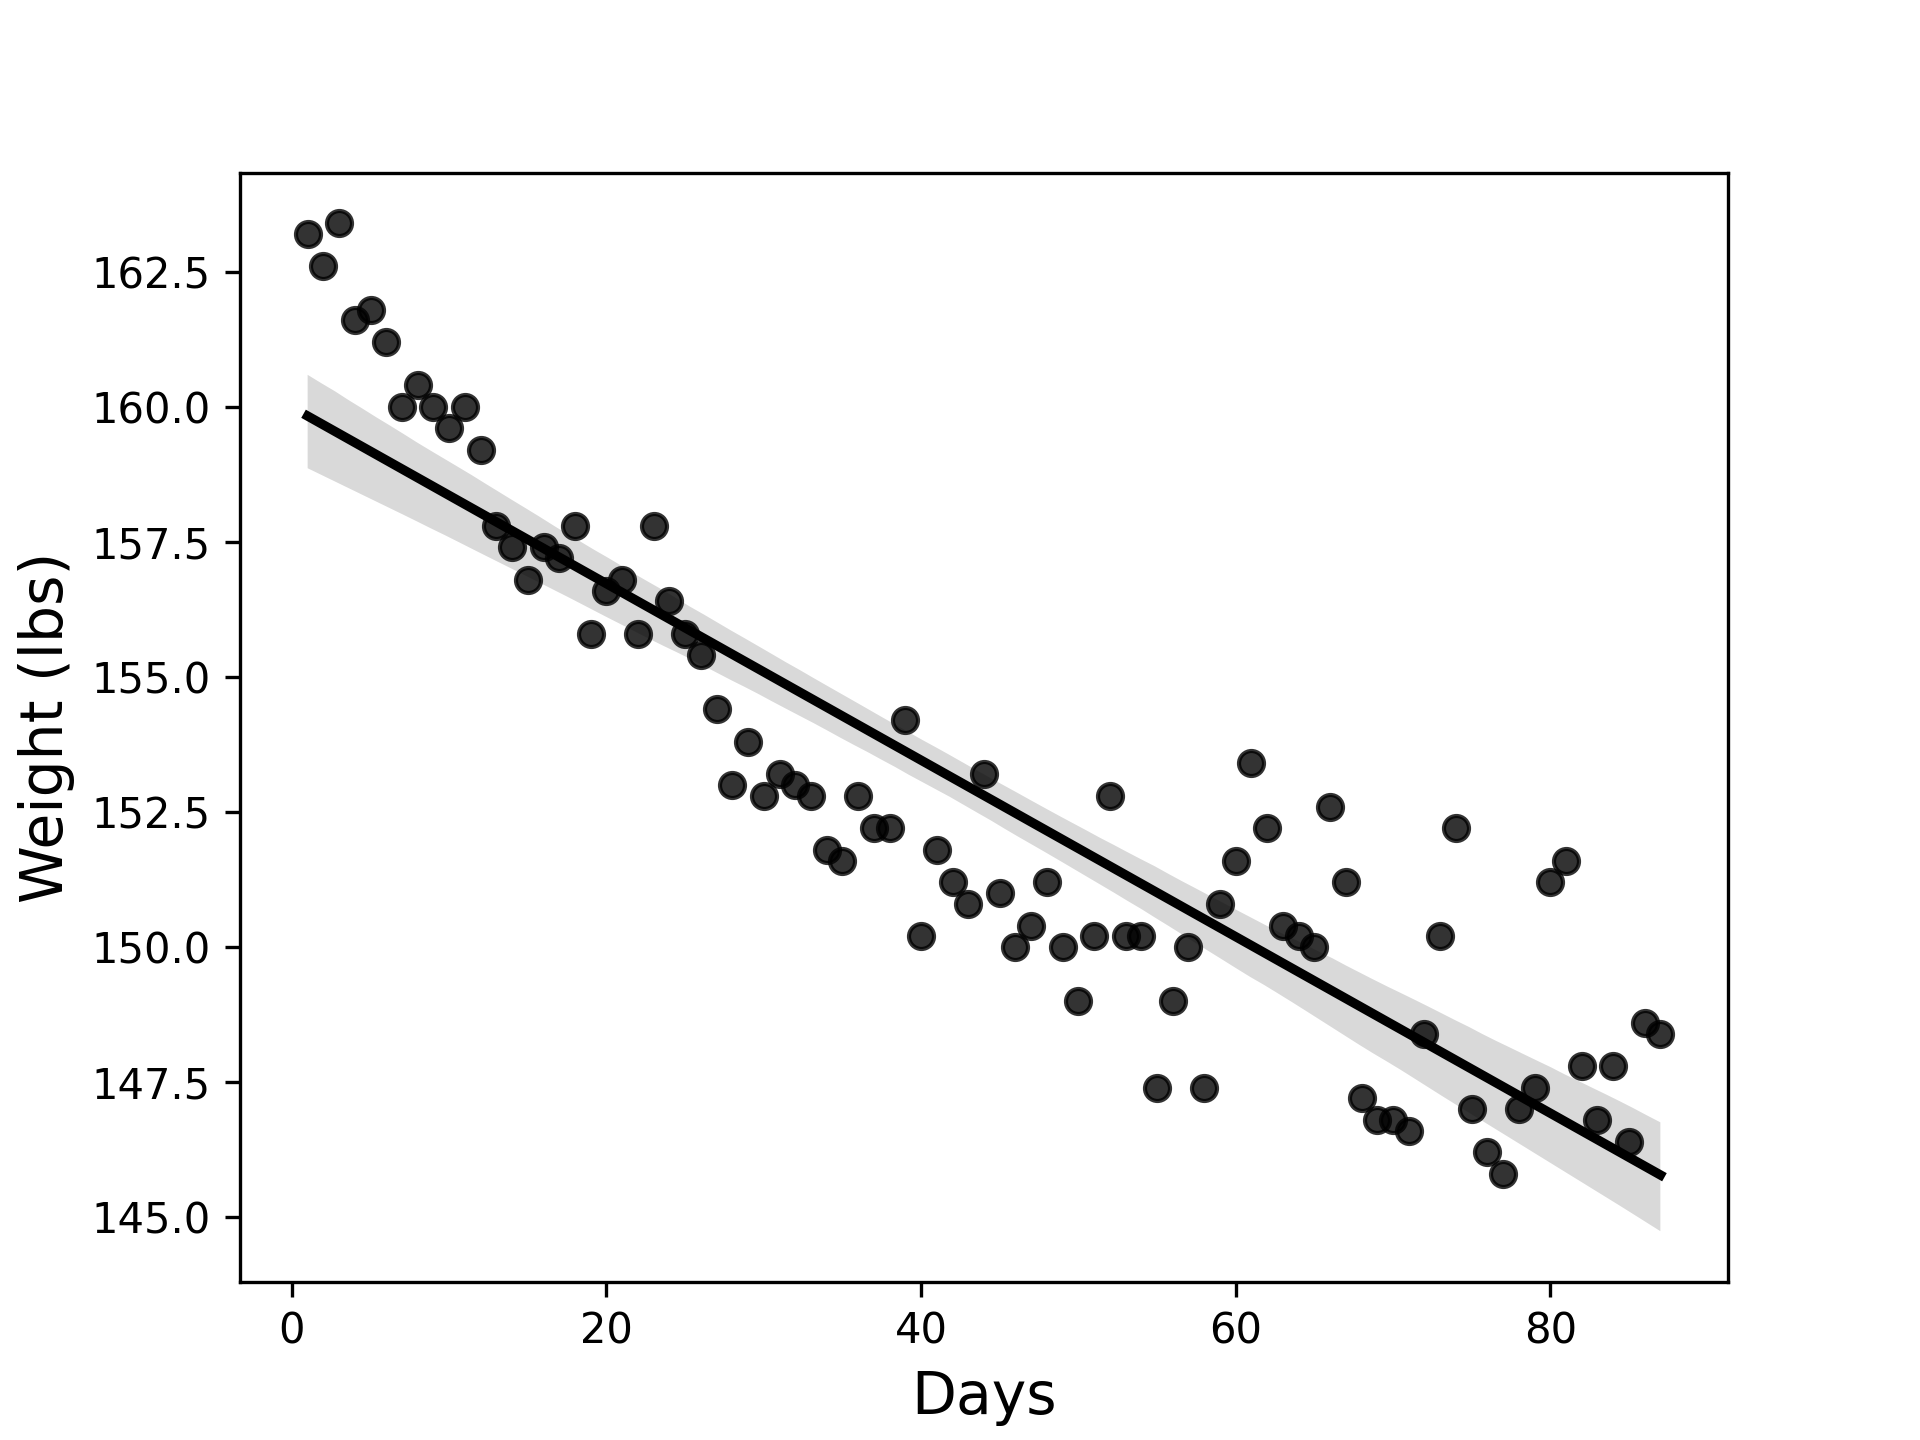
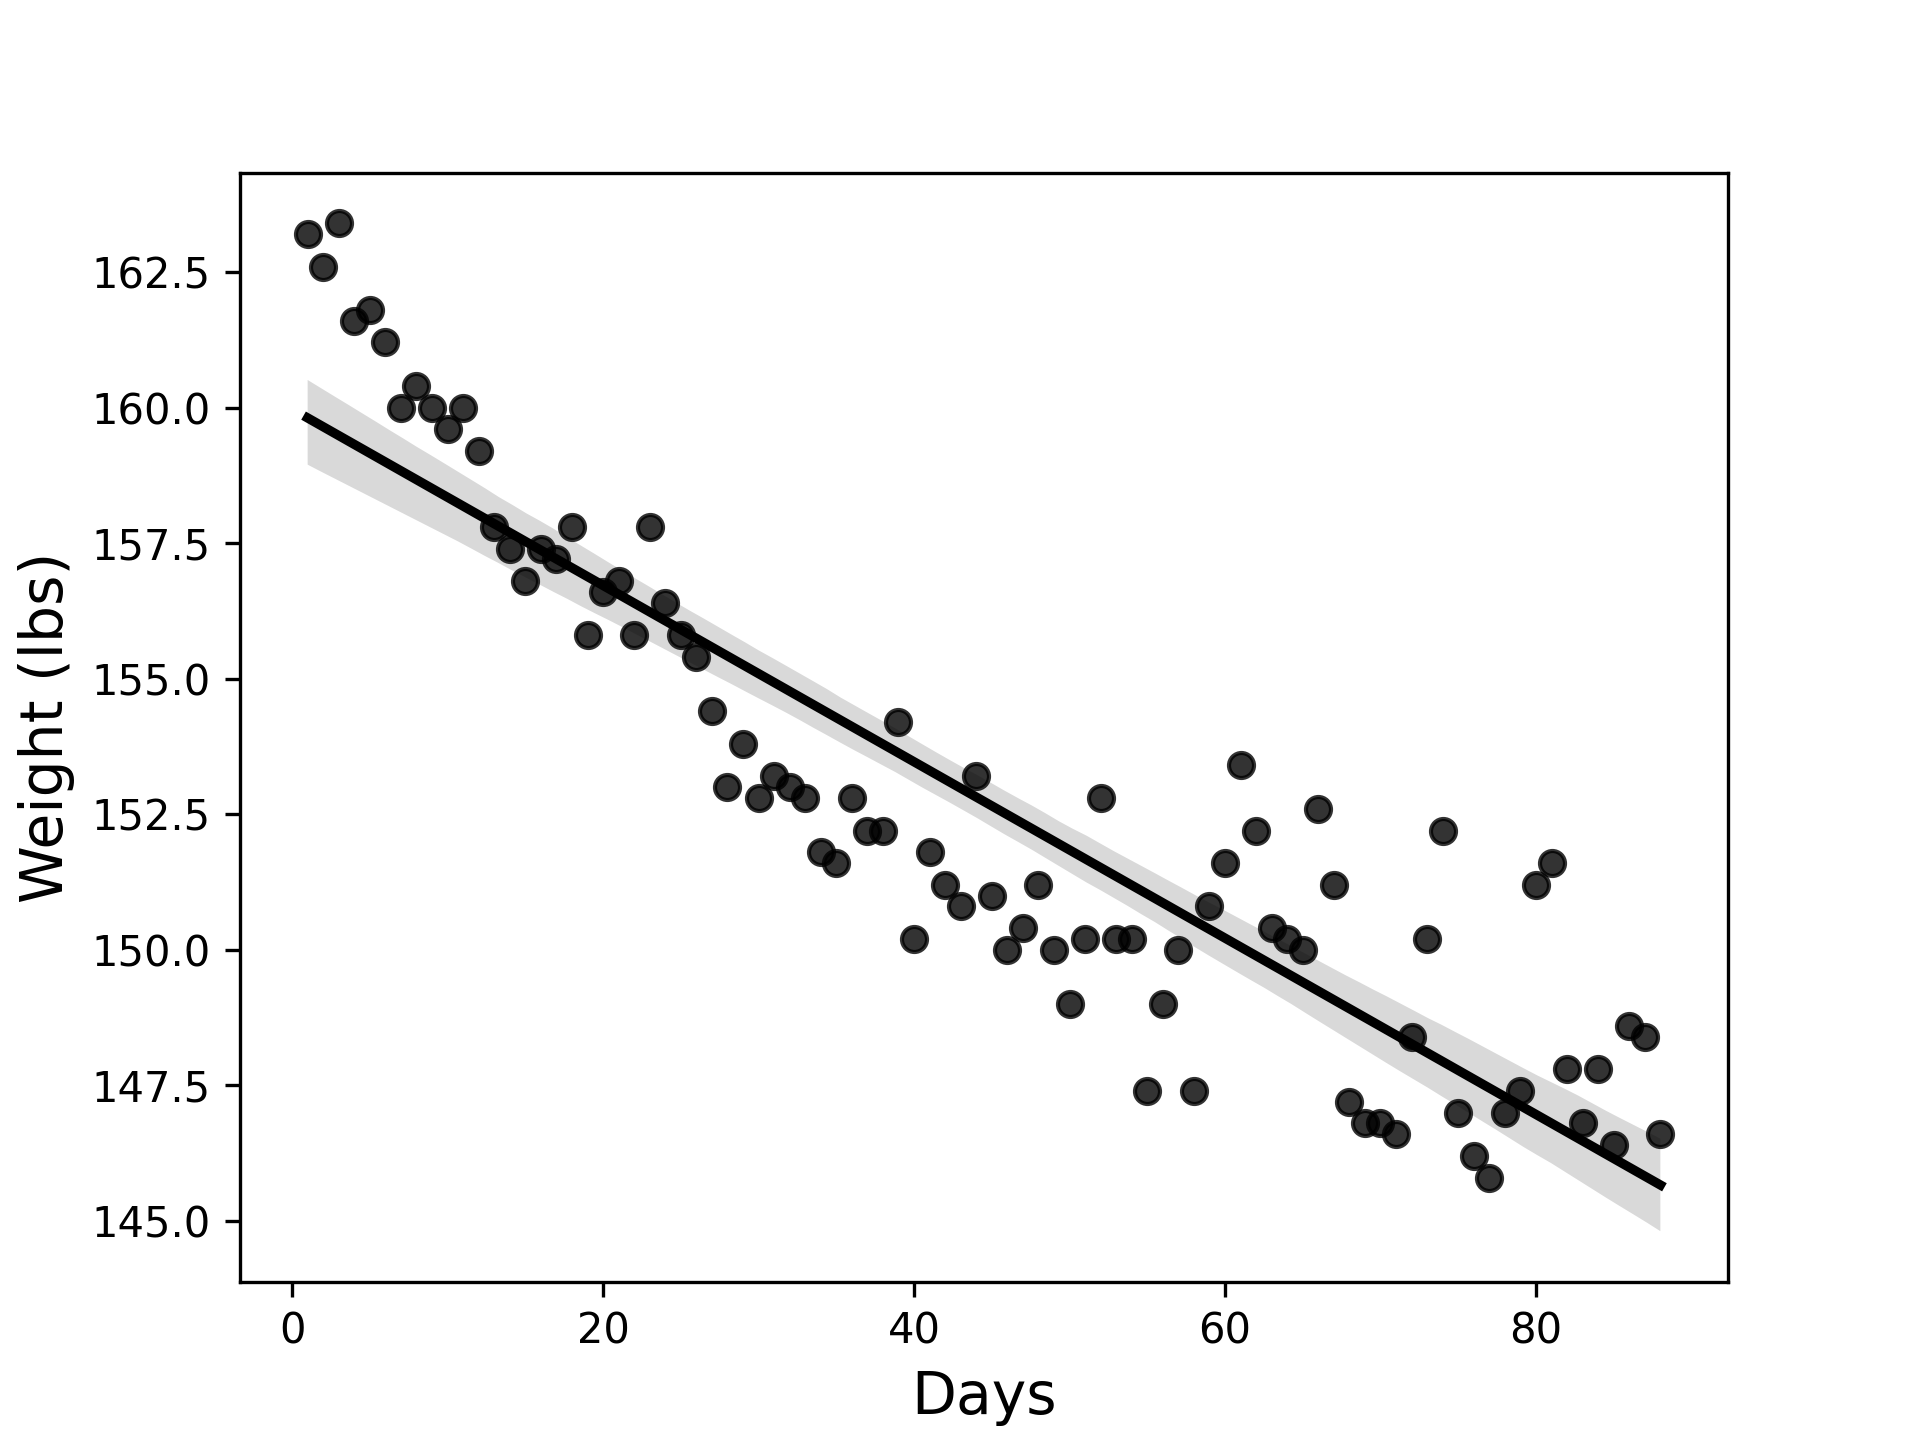
Updated weight.py and weight.png

diff --git a/Weight.py b/Weight.py
@@ -9,14 +9,14 @@ days_elapsed = np.array([1, 2, 3 ,4, 5, 6, 7, 8, 9, 10,11,12,13, 14,15,16,17,18,
                          19, 20,21,22,23,24,25,26,27,28,29,30,31,32,33,34,35,36,37,38,39,
                          40,41,42,43,44,45,46,47,48,49,50,51,52,53,54,55,56,57,58,59,60,61,62,
                          63,64,65,66,67,68,69,70,71,72,73,74,75,76,77,78,79,80,81,82,83,84,
-                         85,86,87]).reshape(-1,1)
+                         85,86,87,88]).reshape(-1,1)
 weight = np.array([163.2, 162.6, 163.4, 161.6, 161.8, 161.2, 160.0, 160.4, 160.0, 159.6,160.0,159.2,157.8, 157.4,156.8,157.4,
                    157.2, 157.8,155.8, 156.6,156.8,155.8,157.8,156.4,155.8,155.4,154.4,153.0,153.8,152.8,153.2,
                    153.0,152.8,151.8,151.6,152.8,152.2,152.2,154.2,150.2, 151.8,151.2,150.8,153.2,
                    151.0,150.0,150.4,151.2,150.0,149.0,150.2,152.8,150.2,150.2,147.4,149.0,150.0,147.4,
                    150.8,151.6,153.4,152.2,150.4,150.2,150.0,152.6,151.2,147.2,146.8,146.8,146.6,
                    148.4,150.2,152.2,147.0,146.2,145.8,147.0,147.4,151.2,151.6,147.8,146.8,147.8,
-                   146.4,148.6,148.4])
+                   146.4,148.6,148.4,146.6])
 # Day 62 BP
 
 # Instantiates a LinearRegression model and fits it to the above arrays
